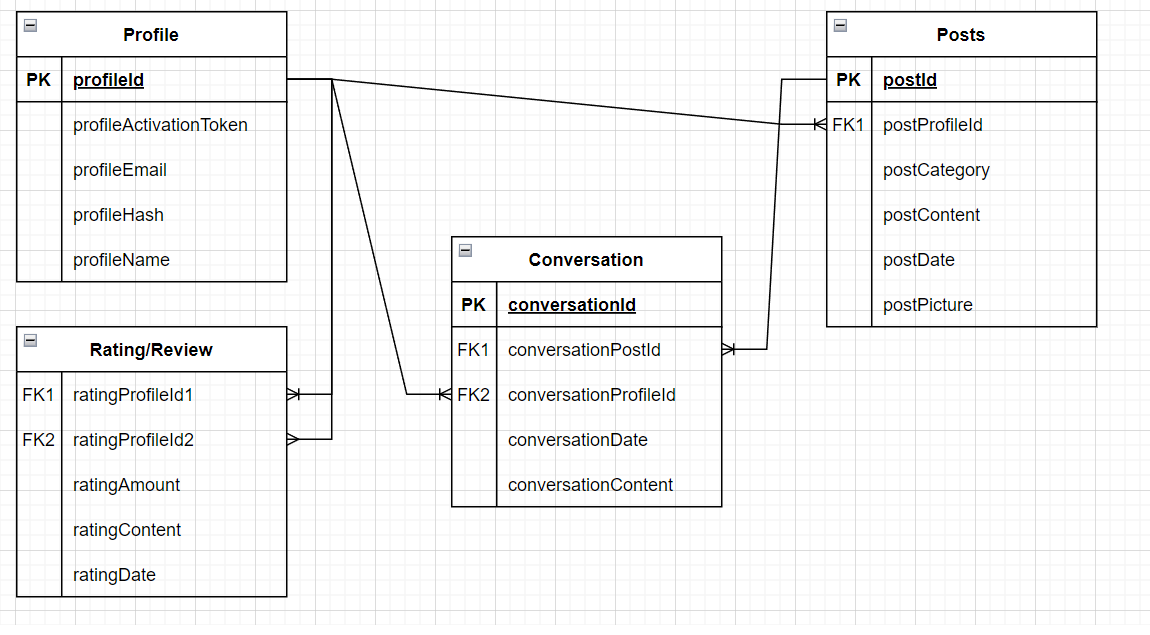
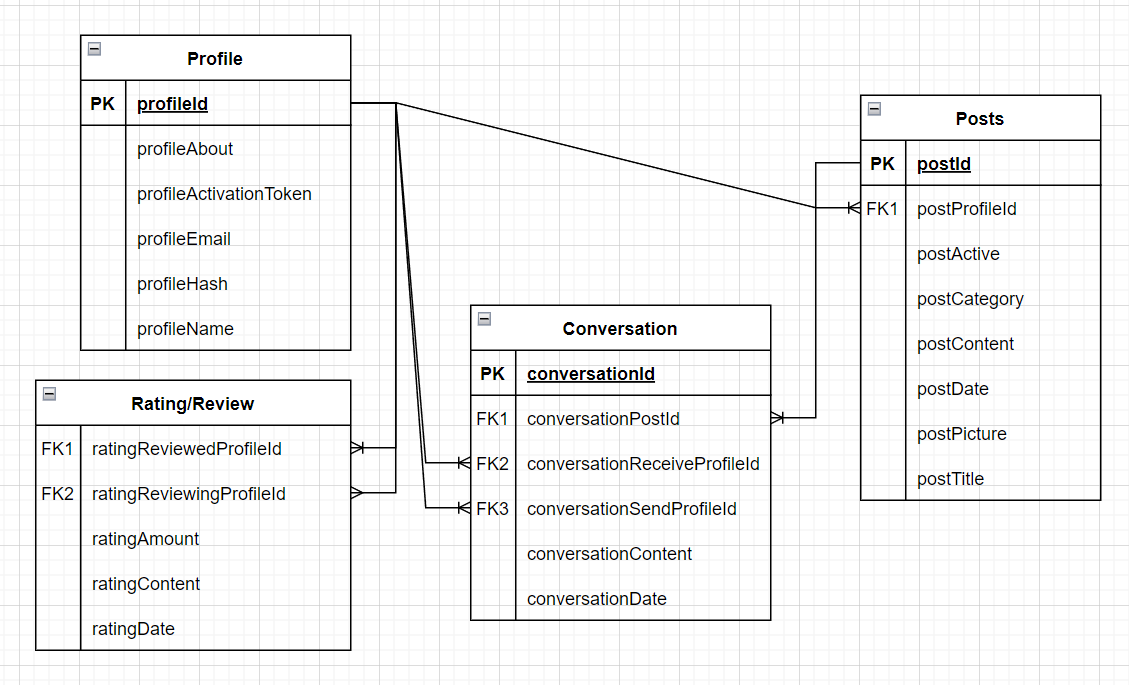
updated the ERD and conceptual model

diff --git a/Documentation/conceptual-model-erd.html b/Documentation/conceptual-model-erd.html
@@ -12,6 +12,7 @@
         <h4>Profile</h4>
             <ul>
                 <li>profileId (primary key)</li>
+                <li>profileAbout</li>
                 <li>profileActivationToken (for account verification)</li>
                 <li>profileEmail</li>
                 <li>profileHash (for account password)</li>
@@ -21,23 +22,26 @@
             <ul>
                 <li>postId (primary key)</li>
                 <li>postProfileId (foreign key)</li>
+                <li>postActive</li>
                 <li>postCategory</li>
                 <li>postContent</li>
                 <li>postDate</li>
                 <li>postPicture</li>
+                <li>postTitle</li>
             </ul>
         <h4>Conversation</h4>
             <ul>
                 <li>conversationId (primary key)</li>
                 <li>conversationPostID (foreign key)</li>
-                <li>conversationProfileId (foreign key)</li>
-                <li>conversationDate</li>
+                <li>conversationReceiveProfileId (foreign key)</li>
+                <li>conversationSendProfileId (foreign key)</li>
                 <li>conversationContent</li>
+                <li>conversationDate</li>
             </ul>
         <h4>Rating/Review</h4>
             <ul>
-                <li>ratingProfileId1 (foreign key) (of person leaving the review)</li>
-                <li>ratingProfileId2 (foreign key) (of person getting reviewed)</li>
+                <li>ratingReviewedProfileId (foreign key)</li>
+                <li>ratingReviewingProfileId (foreign key)</li>
                 <li>ratingAmount</li>
                 <li>ratingContent</li>
                 <li>ratingDate</li>
